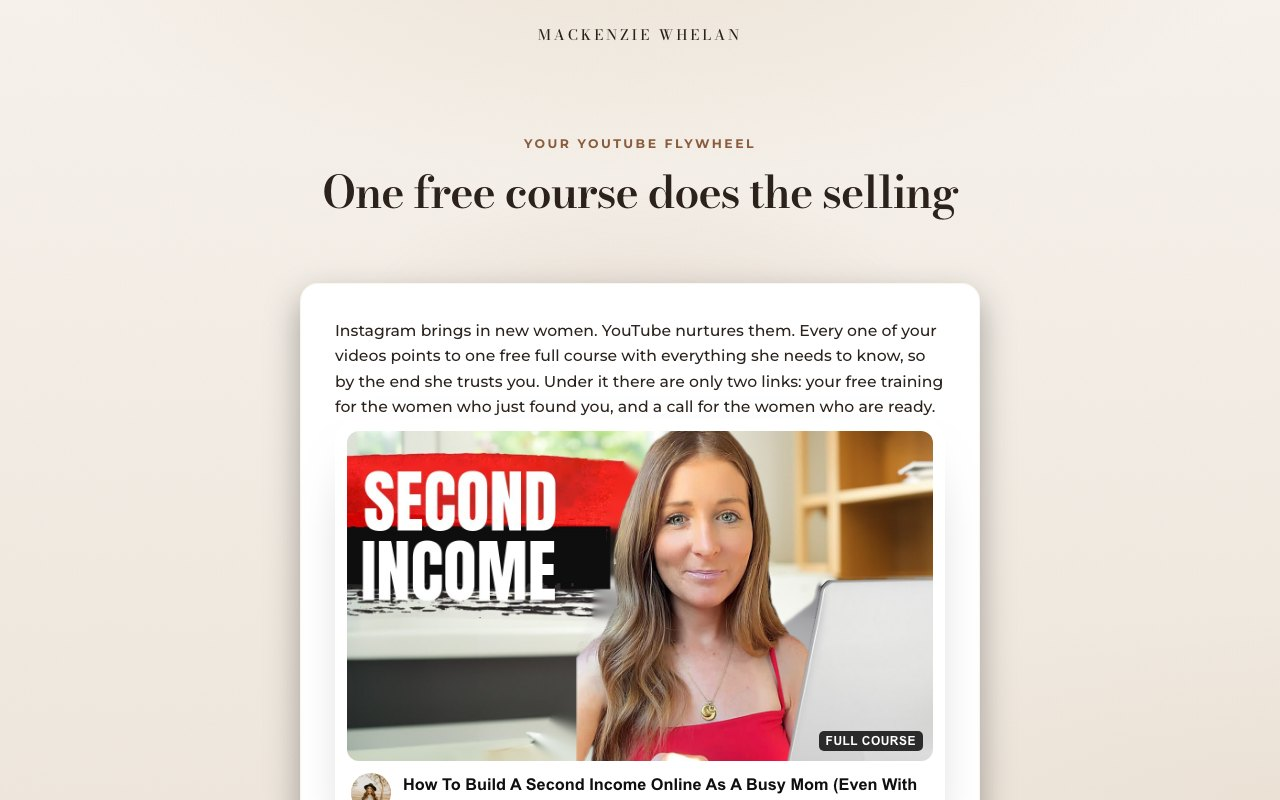
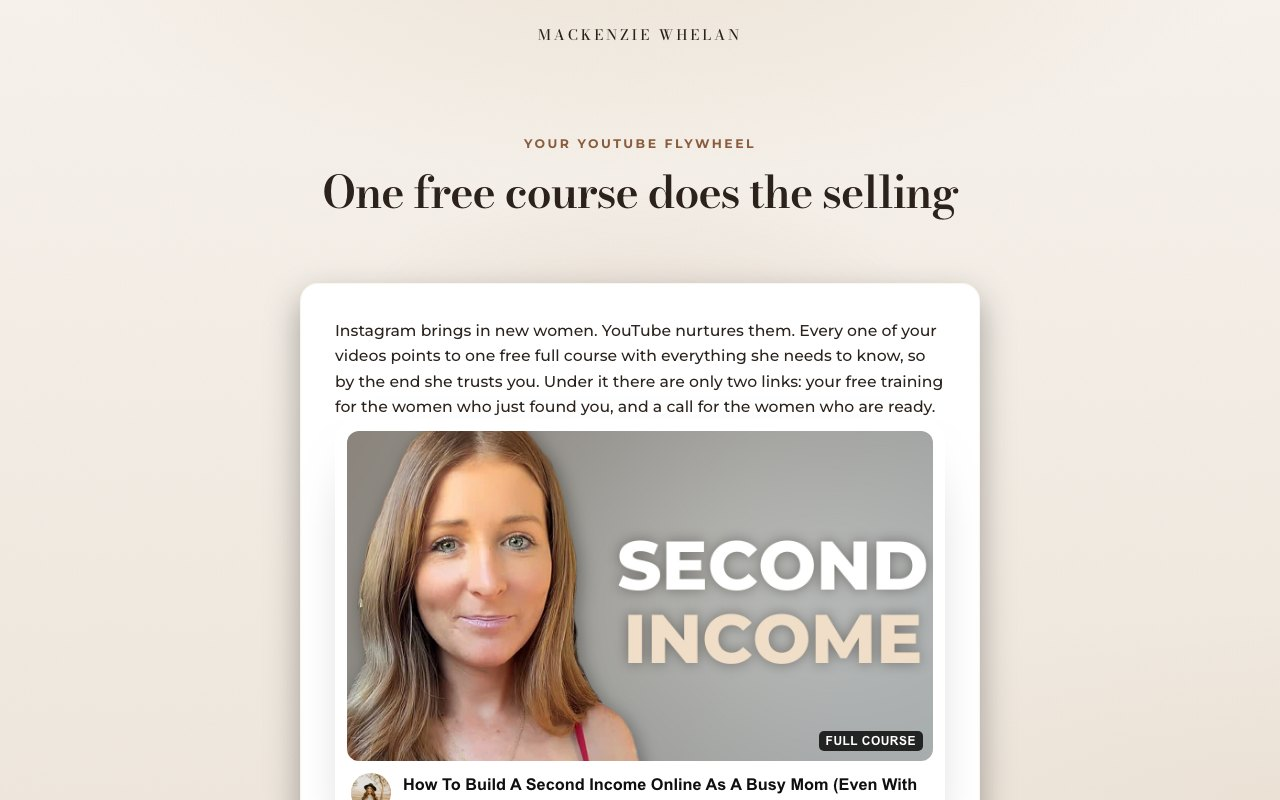
Natural-palette course thumbnail

Changed region(s): [[0.25, 0.5312, 0.75, 0.9688]]

diff --git a/vsl/vsl.js b/vsl/vsl.js
@@ -1,0 +1,90 @@
+/* Revenue & Identity · funnel pages (vsl/, thank-you/, offer/, specimen docs)
+   Lenis smooth scroll, scroll reveals, and the Typeform-style application popup. */
+(function () {
+  var reduce = window.matchMedia("(prefers-reduced-motion: reduce)").matches;
+  var inFrame = window.self !== window.top;
+  if (/[?&]static=1/.test(location.search)) document.documentElement.classList.add("static");
+
+  if (!reduce && !inFrame && window.Lenis) {
+    var lenis = new Lenis({ lerp: 0.1, smoothWheel: true });
+    (function raf(t) { lenis.raf(t); requestAnimationFrame(raf); })(0);
+  }
+
+  // scroll reveals (content is visible without JS: .reveal only hides once this runs)
+  var els = document.querySelectorAll(".reveal");
+  if (reduce || !("IntersectionObserver" in window) || /[?&]static=1/.test(location.search)) {
+    els.forEach(function (el) { el.classList.add("is-in"); });
+  } else {
+    var io = new IntersectionObserver(function (entries) {
+      entries.forEach(function (e) { if (e.isIntersecting) { e.target.classList.add("is-in"); io.unobserve(e.target); } });
+    }, { rootMargin: "0px 0px -8% 0px", threshold: 0.08 });
+    els.forEach(function (el) { io.observe(el); });
+  }
+
+  // ------------------- opt-in gate: the video unlocks after name + email -------------------
+  var gate = document.getElementById("optin");
+  if (gate) {
+    var frame = document.querySelector(".video__frame");
+    var closeGate = function () { gate.classList.remove("open"); gate.setAttribute("aria-hidden", "true"); document.documentElement.style.overflow = ""; };
+    document.querySelectorAll("[data-optin]").forEach(function (b) {
+      b.addEventListener("click", function () {
+        if (frame && frame.classList.contains("is-playing")) return;
+        gate.classList.add("open"); gate.setAttribute("aria-hidden", "false"); document.documentElement.style.overflow = "hidden";
+        setTimeout(function () { var i = gate.querySelector("input"); if (i) i.focus(); }, 80);
+      });
+    });
+    gate.querySelector("[data-close]").addEventListener("click", closeGate);
+    gate.addEventListener("click", function (e) { if (e.target === gate) closeGate(); });
+    document.getElementById("optin-form").addEventListener("submit", function (e) {
+      e.preventDefault(); closeGate();
+      if (frame) frame.classList.add("is-playing"); // sample page: the "video" starts, the Apply button below is the next step
+    });
+  }
+
+  // ---------------------------- application popup ---------------------------
+  var modal = document.getElementById("apply");
+  if (!modal) return;
+  var qs = [].slice.call(modal.querySelectorAll(".q"));
+  var bar = document.getElementById("apply-bar");
+  var idx = 0;
+
+  function show(i) {
+    idx = Math.max(0, Math.min(i, qs.length - 1));
+    qs.forEach(function (q, k) { q.classList.toggle("on", k === idx); });
+    bar.style.width = Math.round((idx / (qs.length - 1)) * 100) + "%";
+    var inp = qs[idx].querySelector(".q__input");
+    if (inp) setTimeout(function () { inp.focus(); }, 60);
+  }
+  function open() { modal.classList.add("open"); modal.setAttribute("aria-hidden", "false"); show(0); document.documentElement.style.overflow = "hidden"; }
+  function close() { modal.classList.remove("open"); modal.setAttribute("aria-hidden", "true"); document.documentElement.style.overflow = ""; }
+  function next() { if (idx < qs.length - 1) show(idx + 1); }
+
+  document.querySelectorAll("[data-apply]").forEach(function (b) { b.addEventListener("click", open); });
+  modal.querySelector("[data-close]").addEventListener("click", close);
+  modal.addEventListener("click", function (e) { if (e.target === modal) close(); });
+
+  qs.forEach(function (q) {
+    var ok = q.querySelector(".q__ok");
+    if (ok) ok.addEventListener("click", next);
+    var opts = q.querySelectorAll(".q__opt");
+    opts.forEach(function (o) {
+      o.addEventListener("click", function () {
+        opts.forEach(function (x) { x.classList.remove("sel"); });
+        o.classList.add("sel");
+        setTimeout(next, 320);
+      });
+    });
+    q.querySelectorAll(".book__day").forEach(function (d, _, all) {
+      d.addEventListener("click", function () { all.forEach(function (x) { x.classList.remove("sel"); }); d.classList.add("sel"); });
+    });
+  });
+
+  document.addEventListener("keydown", function (e) {
+    if (!modal.classList.contains("open")) { if (e.key === "Escape" && gate) gate.classList.remove("open"); return; }
+    if (e.key === "Escape") close();
+    if (e.key === "Enter" && qs[idx].querySelector(".q__input")) { e.preventDefault(); next(); }
+    var letter = e.key && e.key.length === 1 ? e.key.toUpperCase().charCodeAt(0) - 65 : -1;
+    var opts = qs[idx].querySelectorAll(".q__opt");
+    if (letter >= 0 && letter < opts.length && document.activeElement.tagName !== "INPUT") opts[letter].click();
+  });
+})();

diff --git a/index.html b/index.html
@@ -173,7 +173,7 @@
             <p class="beat__text">What if you added a flywheel funnel? Instagram brings in new eyes, and YouTube nurtures them. Women need to watch a lot of you before they trust you, and Reels are too short for that. On YouTube they can watch you for an hour, and the most qualified women come from there.</p>
           </div>
           <div class="beat__aside">
-            <figure class="shot shot--wide"><img src="assets/img/course-thumb.jpg" alt="Thumbnail for Mackenzie's free full course" loading="lazy" /><figcaption>Your free full course thumbnail</figcaption></figure>
+            <figure class="shot shot--wide"><img src="assets/img/course-thumb.jpg?v=1792781139" alt="Thumbnail for Mackenzie's free full course" loading="lazy" /><figcaption>Your free full course thumbnail</figcaption></figure>
           </div>
         </article>
 
@@ -196,8 +196,8 @@
             <span class="group__rule"></span>
           </div>
           <div class="grid grid--1">
-            <button class="pcard pcard--wide reveal" data-title="Your YouTube flywheel" data-embed="youtube-flywheel/?v=1792780862">
-              <span class="thumb thumb--wide"><span class="thumb__bar"><i></i><i></i><i></i><span class="thumb__url">your free full course</span></span><img class="thumb__img" src="assets/img/flywheel-preview.jpg" alt="YouTube flywheel preview" loading="lazy" /></span>
+            <button class="pcard pcard--wide reveal" data-title="Your YouTube flywheel" data-embed="youtube-flywheel/?v=1792781139">
+              <span class="thumb thumb--wide"><span class="thumb__bar"><i></i><i></i><i></i><span class="thumb__url">your free full course</span></span><img class="thumb__img" src="assets/img/flywheel-preview.jpg?v=1792781139" alt="YouTube flywheel preview" loading="lazy" /></span>
               <span class="pcard__body"><span><span class="pcard__kicker">01 · Start here</span><span class="pcard__title">Your YouTube flywheel</span><span class="pcard__desc">One free full course on YouTube that does the selling: the thumbnail, the course outline, the two links under every video and the pinned comment.</span></span><span class="pcard__link">Open preview <span class="arrow" aria-hidden="true"></span></span></span>
             </button>
           </div>
@@ -210,8 +210,8 @@
             <span class="group__rule"></span>
           </div>
           <div class="grid grid--1">
-            <button class="pcard pcard--wide reveal" data-title="Free training + book a call" data-embed="vsl/?v=1792780862">
-              <span class="thumb thumb--wide"><span class="thumb__bar"><i></i><i></i><i></i><span class="thumb__url">your link in bio · free training</span></span><img class="thumb__img" src="assets/img/vsl-preview.jpg" alt="Landing page preview" loading="lazy" /></span>
+            <button class="pcard pcard--wide reveal" data-title="Free training + book a call" data-embed="vsl/?v=1792781139">
+              <span class="thumb thumb--wide"><span class="thumb__bar"><i></i><i></i><i></i><span class="thumb__url">your link in bio · free training</span></span><img class="thumb__img" src="assets/img/vsl-preview.jpg?v=1792781139" alt="Landing page preview" loading="lazy" /></span>
               <span class="pcard__body"><span><span class="pcard__kicker">02 · Your link in bio</span><span class="pcard__title">Free training + book a call</span><span class="pcard__desc">The page &ldquo;Work with me&rdquo; should point to: your free training as a video, your story, how the business works, and the call booking built in.</span></span><span class="pcard__link">Open preview <span class="arrow" aria-hidden="true"></span></span></span>
             </button>
           </div>

diff --git a/youtube-flywheel/index.html b/youtube-flywheel/index.html
@@ -42,7 +42,7 @@
       <article class="email reveal">
         <div class="email__body"><p>Instagram brings in new women. YouTube nurtures them. Every one of your videos points to one free full course with everything she needs to know, so by the end she trusts you. Under it there are only two links: your free training for the women who just found you, and a call for the women who are ready.</p></div>
         <div class="yt">
-          <div class="yt__thumb"><img src="../assets/img/course-thumb.jpg" alt="Thumbnail for Mackenzie's free full course" /><span class="yt__badge">FULL COURSE</span></div>
+          <div class="yt__thumb"><img src="../assets/img/course-thumb.jpg?v=1792781139" alt="Thumbnail for Mackenzie's free full course" /><span class="yt__badge">FULL COURSE</span></div>
           <div class="yt__meta"><img src="../assets/img/pfp.jpg" alt="" /><div><b>How To Build A Second Income Online As A Busy Mom (Even With A Full-Time Career) | FULL FREE COURSE</b><small>Mackenzie Whelan</small></div></div>
         </div>
       </article>
